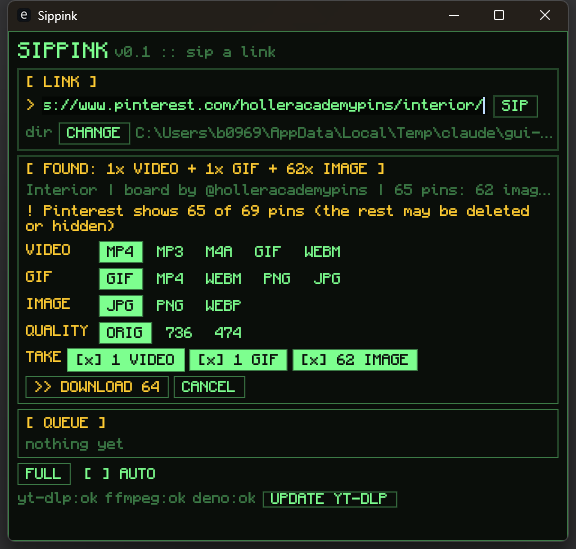
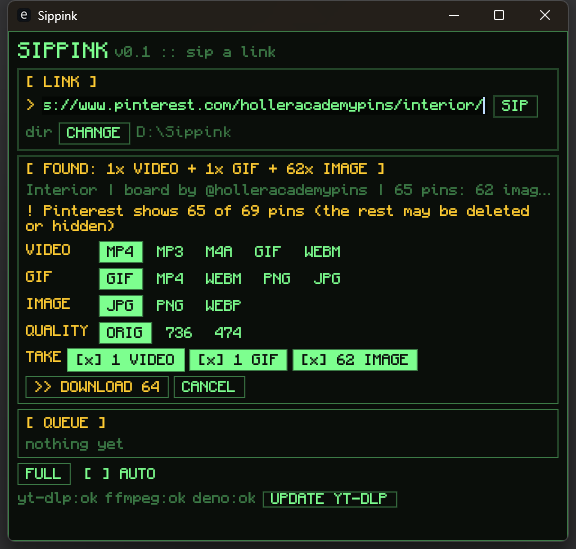
Show the real version, add CI and release workflows
The title reads the version from Cargo.toml. CI builds and tests pushes
to master and pull requests; pushing a vX.Y.Z tag that is on main and
matches Cargo.toml builds sippink.exe and publishes a GitHub Release.
README documents the main/master/feature branch flow. The screenshot
no longer shows a local user path.

Changed region(s): [[0.2188, 0.2168, 0.9375, 0.2787]]

diff --git a/src/main.rs b/src/main.rs
@@ -718,7 +718,7 @@ impl eframe::App for App {
         egui::CentralPanel::default().frame(frame).show(ctx, |ui| {
             ui.horizontal(|ui| {
                 ui.label(RichText::new("SIPPINK").heading().color(FG));
-                ui.label(RichText::new("v0.1 :: sip a link").color(DIM));
+                ui.label(RichText::new(concat!("v", env!("CARGO_PKG_VERSION"), " :: sip a link")).color(DIM));
             });
             self.input_bar(ui);
             self.chooser(ui);

diff --git a/README.md b/README.md
@@ -112,3 +112,41 @@ cargo test -- --ignored    # live tests against x.com
 
 Font: [Monocraft](https://github.com/IdreesInc/Monocraft) (SIL OFL 1.1,
 see `assets/Monocraft-OFL.txt`).
+
+## Branches and releases
+
+| Branch | What it is |
+|---|---|
+| `main` | Released versions only. Every commit here has a `vX.Y.Z` tag. |
+| `master` | Work in progress. Try things here; CI builds and tests every push. |
+| `feat/...`, `fix/...` | One change each, branched from `master`. |
+
+Work on something:
+
+```
+git switch master
+git pull
+git switch -c fix/tray-menu
+# ...commit...
+git switch master
+git merge fix/tray-menu
+git push                    # CI builds and tests it
+```
+
+Release it once `master` is good (example: 0.1.1):
+
+```
+# on master: set version = "0.1.1" in Cargo.toml
+cargo build                 # updates Cargo.lock
+git commit -am "Release v0.1.1"
+git push
+git switch main
+git merge --ff-only master
+git tag v0.1.1
+git push origin main v0.1.1
+git switch master
+```
+
+The tag push makes GitHub Actions build `sippink-v0.1.1-windows-x64.exe`
+and publish it on the Releases page. It refuses tags that aren't on `main`
+or don't match `Cargo.toml`.
